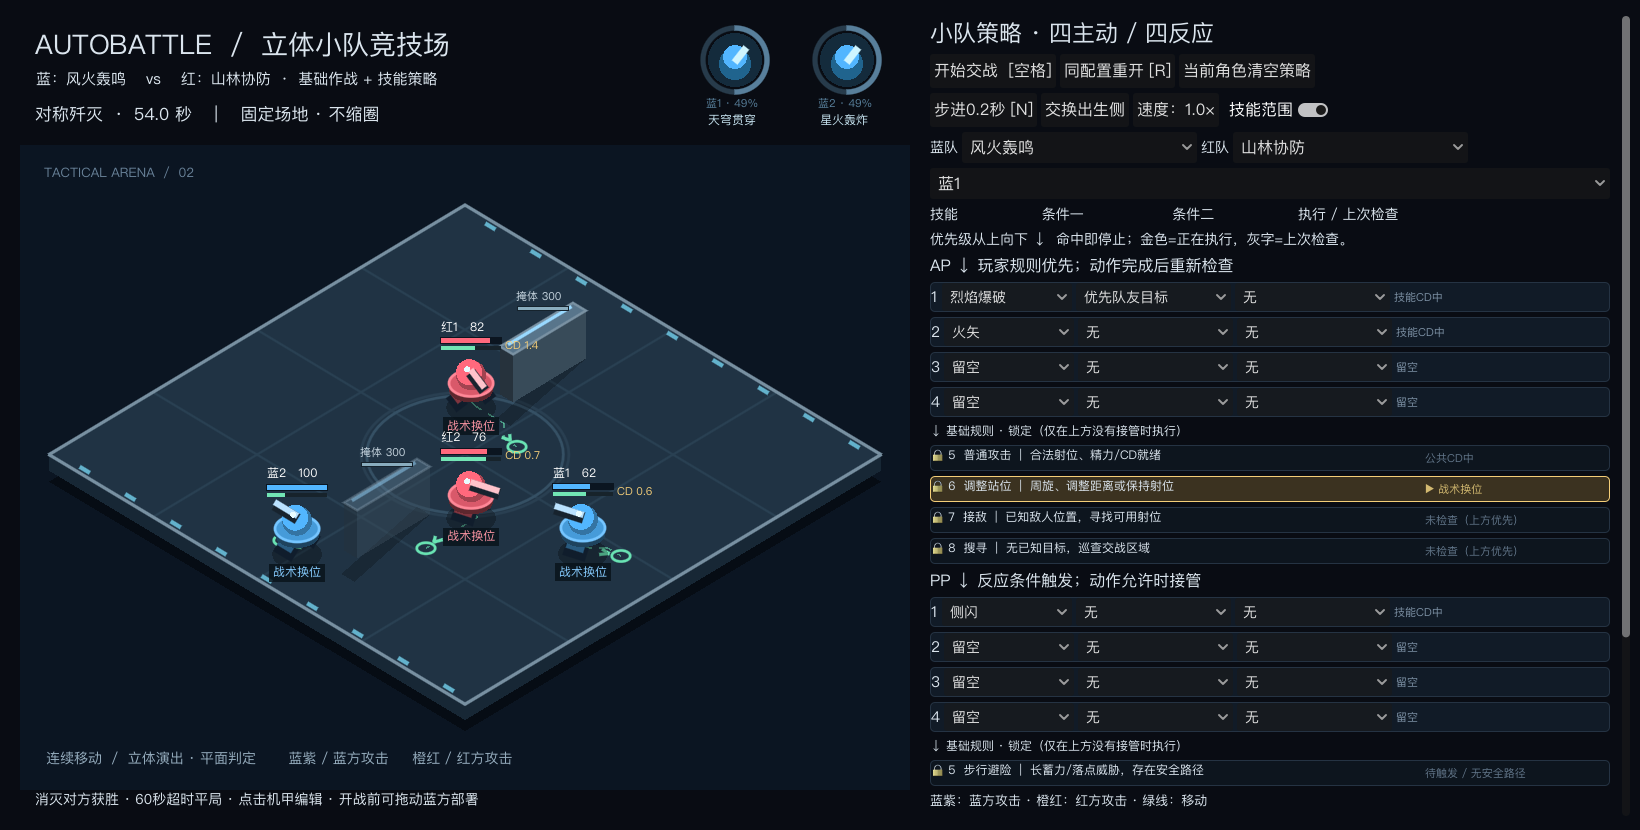
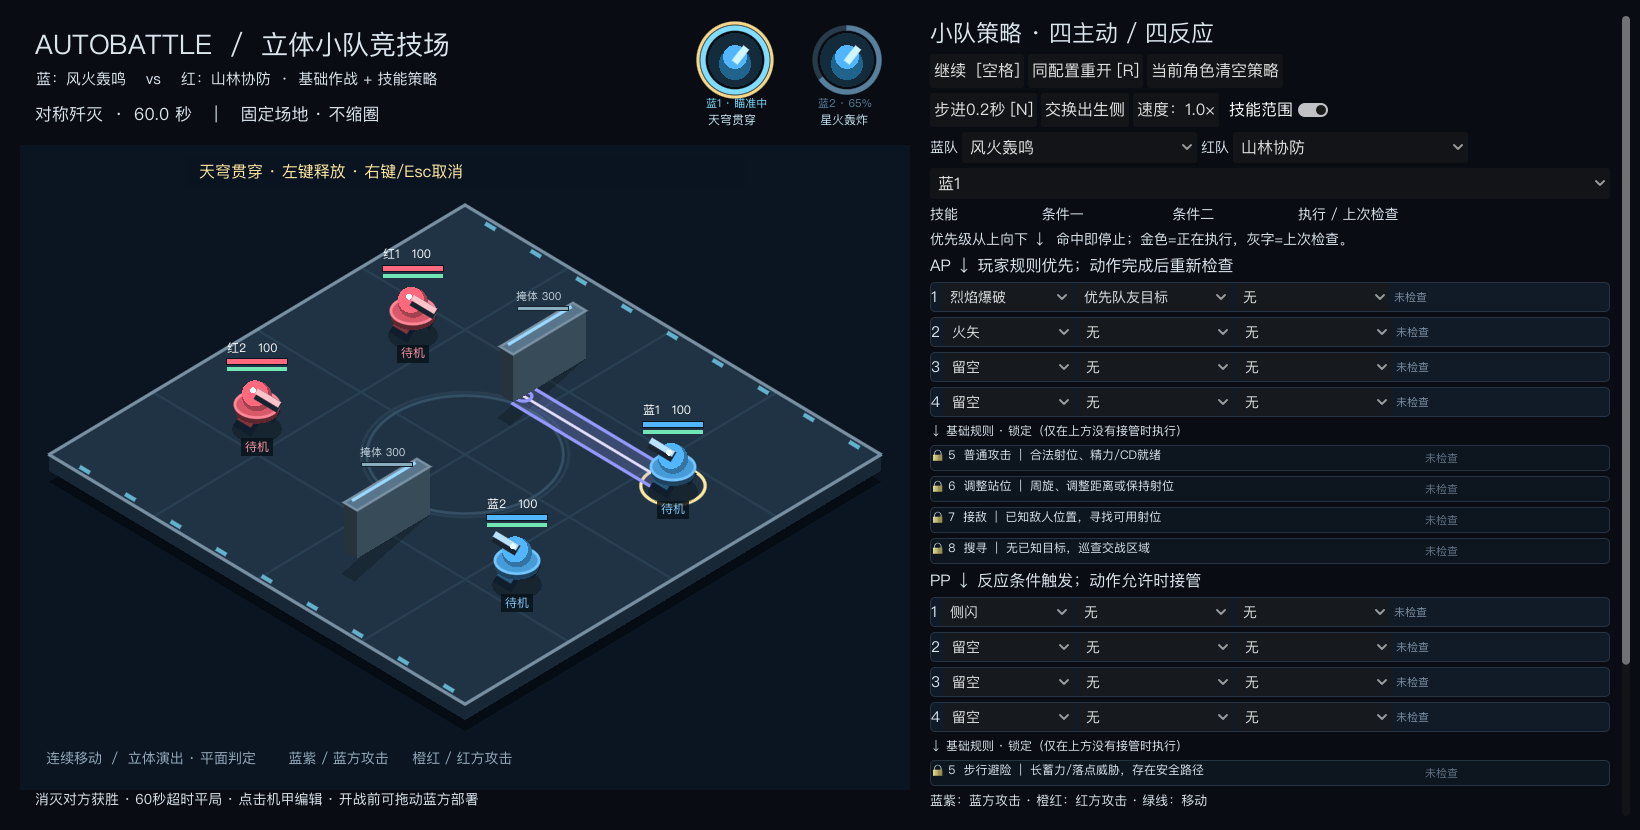
修复自动施法抢占大招资源，支持排队释放与赛后使用

diff --git a/README.md b/README.md
@@ -48,7 +48,7 @@
 
 - 战场上方有蓝1、蓝2头像，外环显示0–100%充能。存活时按模拟时间12秒充满，开局从0开始，满后保留，不受伤害或随机数影响。
 - 满能后点击头像，整个战斗以当前播放速度的15%运行；鼠标方向控制投影后的真实预览，左键点击场内确认，右键/Esc或再点同一头像取消。点界外不消耗充能。
-- 确认要求精力≥70、公共CD结束且没有施法/收招；成功时扣除充能与70精力、恢复原倍率，并接管机甲的移动动作，准备0.3秒后释放、收招0.8秒；已飞出的普通攻击保留。取消不扣能，暂停状态下瞄准不会自动取消暂停。死亡、重开和战斗结束退出瞄准。
+- 点击头像后该机甲保留精力，停止发起自动技能；确认方向立即恢复原倍率，未满足70精力/公共CD/动作结束时排队，恢复后自动扣除充能和精力并释放，准备0.3秒后释放、收招0.8秒；已飞出的普通攻击保留。取消不扣能，暂停状态下瞄准不会自动取消暂停。死亡、重开退出瞄准；胜负确定后也可重新使用大招。点击“已排队”的头像可无损取消。
 - 蓝1「天穹贯穿」：长500、宽36像素直线光束，45真实伤害，穿敌人但被完整墙体截停，对墙造成45伤害；预览显示被墙截断后的长度。
 - 蓝2「星火轰炸」：沿选定方向120/220/320像素三处落点，半径60，每枚22伤害；准备后飞行0.65秒、圆环满时落地，能越过墙体。边界处落点裁入场内，过近落点合并，避免在墙角重叠三炸。
 - 暂时按蓝方两个成员固定分配大招，与AP/PP槽独立；红方不自动释放手动大招。用于测试指挥官干预，尚未做对称平衡。
